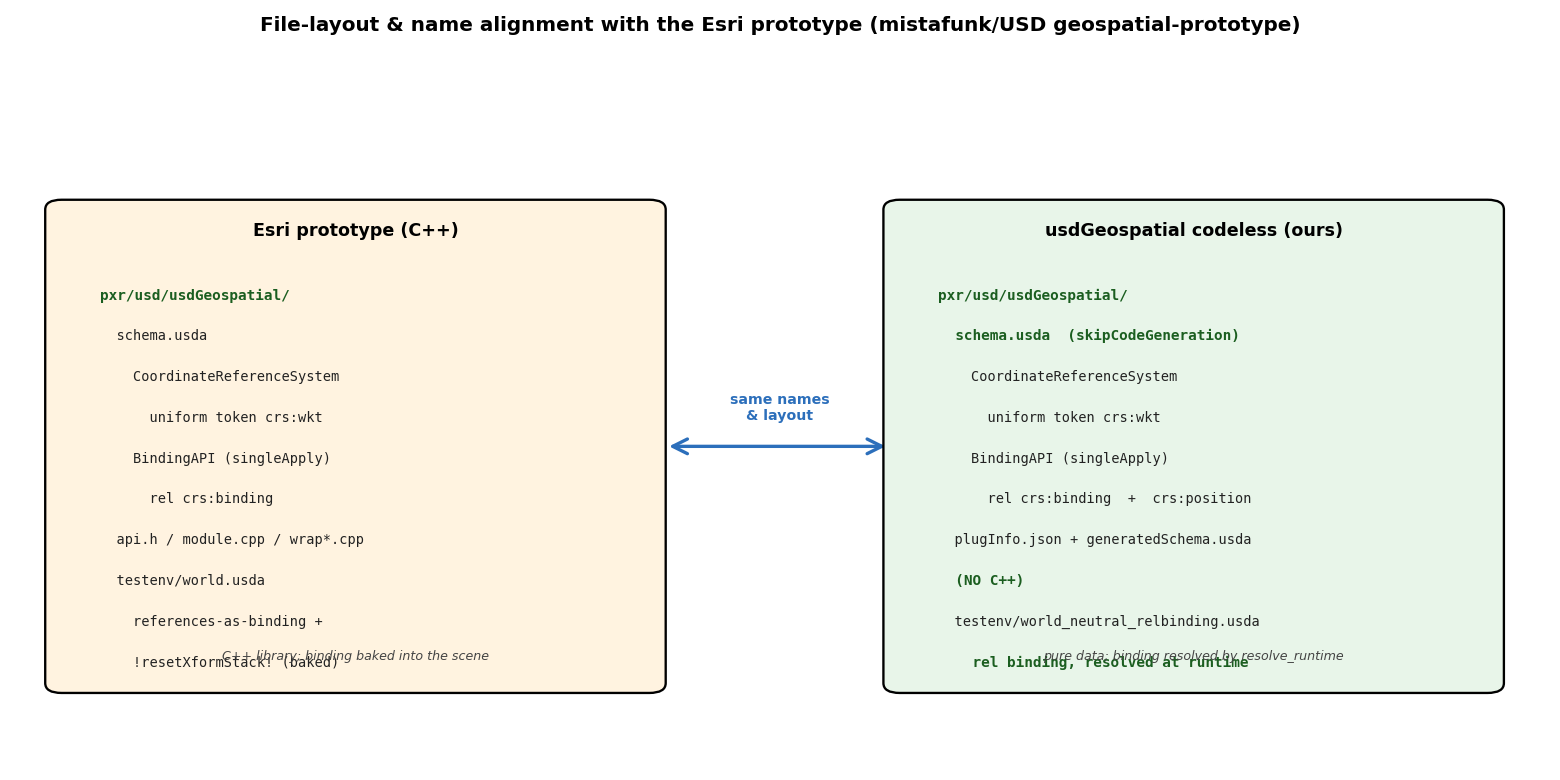
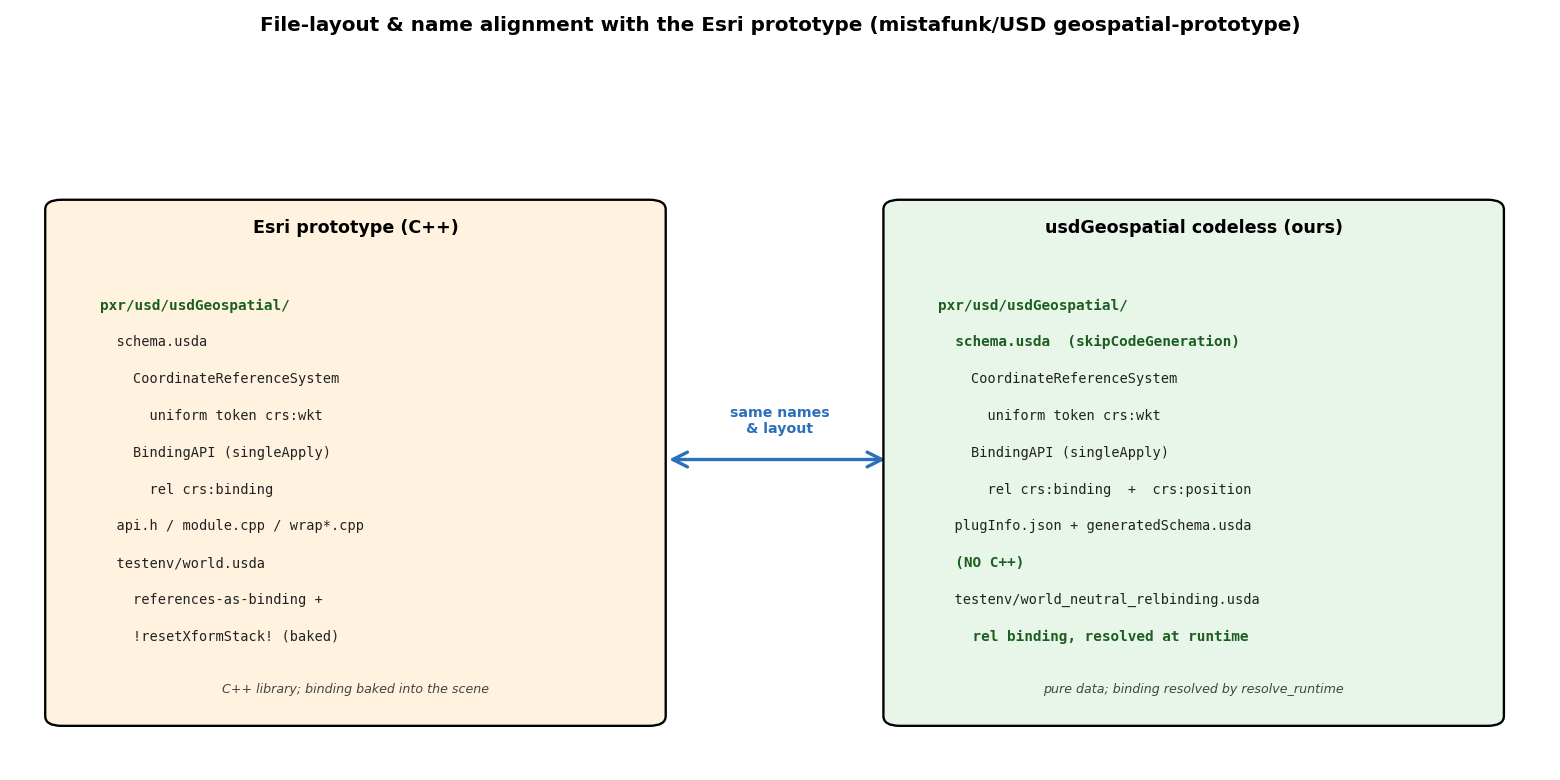
usdGeospatial: fix tree_alignment.png caption/text collision
The 10-line column text reached y~1.62 while the italic footer caption
sat at y=1.55, so the last code line (testenv binding line) overlapped
the footer. Tighten line step (0.62->0.56), start lines a touch lower,
grow the box, and drop the footer to y=1.05 for clear separation;
nudge the center arrow down to match. Other 4 figures byte-identical
(determinism confirmed).

diff --git a/extras/usd/examples/usdGeospatial/src/render_figures.py b/extras/usd/examples/usdGeospatial/src/render_figures.py
@@ -189,18 +189,18 @@ def fig_tree_alignment(out):
                  "(mistafunk/USD geospatial-prototype)", fontsize=12, fontweight="bold")
 
     def col(x, title, lines, color, foot):
-        ax.add_patch(FancyBboxPatch((x, 1.2), 5.4, 7.2, boxstyle="round,pad=0.15",
+        ax.add_patch(FancyBboxPatch((x, 0.7), 5.4, 7.7, boxstyle="round,pad=0.15",
                                     fc=color, ec="black", lw=1.4))
-        ax.text(x + 2.7, 8.0, title, ha="center", fontsize=10.5, fontweight="bold")
-        y = 7.2
+        ax.text(x + 2.7, 8.05, title, ha="center", fontsize=10.5, fontweight="bold")
+        y = 7.05
         for txt, mono, em in lines:
             ax.text(x + 0.35, y, txt, ha="left", va="top",
                     fontsize=8.2 if not em else 8.6,
                     family="monospace" if mono else "sans-serif",
                     fontweight="bold" if em else "normal",
                     color="#1b5e20" if em else "#222")
-            y -= 0.62
-        ax.text(x + 2.7, 1.55, foot, ha="center", fontsize=7.6, style="italic", color="#444")
+            y -= 0.56
+        ax.text(x + 2.7, 1.05, foot, ha="center", fontsize=7.6, style="italic", color="#444")
 
     col(0.4, "Esri prototype (C++)", [
         ("pxr/usd/usdGeospatial/", True, True),
@@ -216,9 +216,9 @@ def fig_tree_alignment(out):
     ], "#fff3e0", "C++ library; binding baked into the scene")
 
     # arrow
-    ax.add_patch(FancyArrowPatch((5.95, 4.8), (8.0, 4.8), arrowstyle="<->",
+    ax.add_patch(FancyArrowPatch((5.95, 4.6), (8.0, 4.6), arrowstyle="<->",
                                  mutation_scale=22, lw=2, color="#2c6fbb"))
-    ax.text(7.0, 5.2, "same names\n& layout", ha="center", fontsize=8.5,
+    ax.text(7.0, 5.0, "same names\n& layout", ha="center", fontsize=8.5,
             color="#2c6fbb", fontweight="bold")
 
     col(8.1, "usdGeospatial codeless (ours)", [
